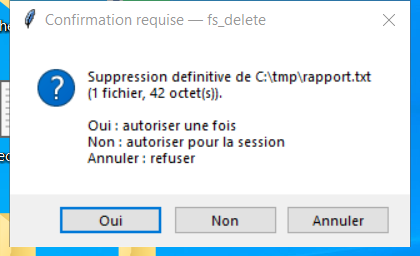
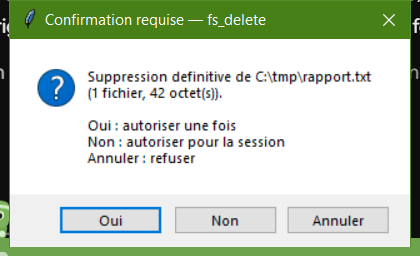
Corrige la vérification visuelle des boutons d'approbation
Analyse les boutons dans la fenêtre déjà capturée au lieu d'une capture du
bureau prise avant son ouverture, qui faisait échouer le contrôle avec des
boutons vides. Régénère les preuves visuelles du dialogue, du raccourci et de
la toast sur la session Windows interactive.

🤖 Generated with Codebuff

Changed region(s): [[0.0, 0.0, 1.0, 1.0]]

diff --git a/tools/visual_check.py b/tools/visual_check.py
@@ -318,7 +318,16 @@ def capture() -> dict[str, Any]:
             left, top, right, bottom = button["rect"]
             if not (area[0] <= left < right <= area[2] and area[1] <= top < bottom <= area[3]):
                 raise RuntimeError(f"bouton hors de la fenetre : {button}")
-            piece = screen.crop((left + 2, top + 2, right - 2, bottom - 2)).convert("L")
+            # `screen` a ete pris avant l'ouverture de la boite : analyser la
+            # fenetre deja capturee, sinon on mesure le bureau a cet endroit.
+            piece = frame.crop(
+                (
+                    left - area[0] + 2,
+                    top - area[1] + 2,
+                    right - area[0] - 2,
+                    bottom - area[1] - 2,
+                )
+            ).convert("L")
             if ImageStat.Stat(piece).stddev[0] < 1.0:
                 raise RuntimeError(f"bouton visuellement vide : {button}")
         text, _words = _ocr(frame)
